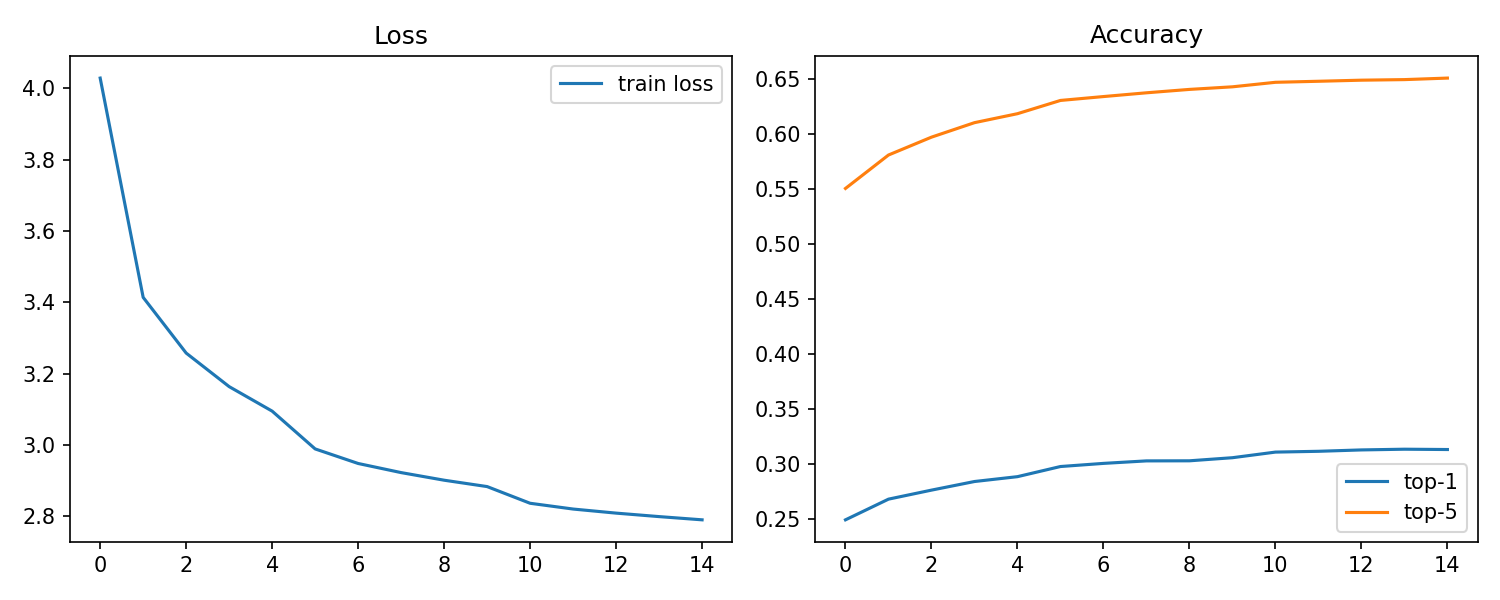
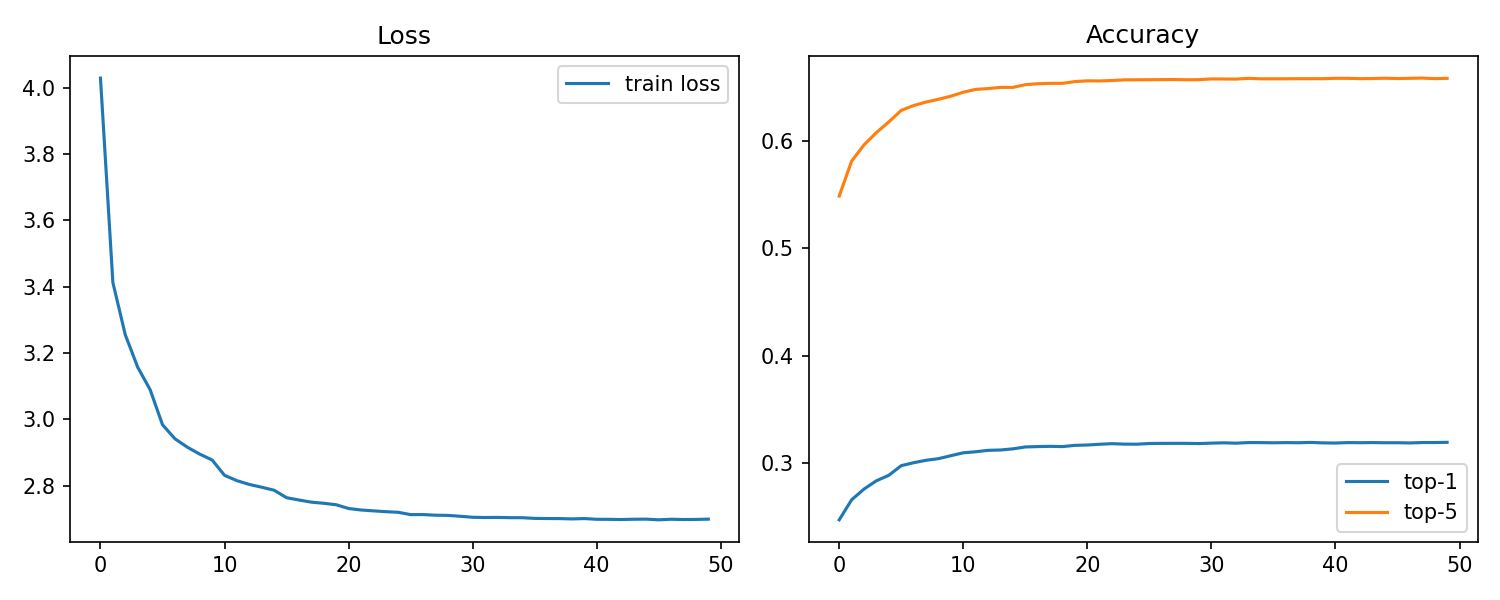
Update AI strength, add material UI, fix JSON bug

diff --git a/web/static/app.js b/web/static/app.js
@@ -149,6 +149,76 @@ function renderBoard() {
             }
         }
     }
+
+    calculateMaterial();
+}
+
+function calculateMaterial() {
+    const pieceValues = { 'p': 1, 'n': 3, 'b': 3, 'r': 5, 'q': 9, 'P': 1, 'N': 3, 'B': 3, 'R': 5, 'Q': 9 };
+    const startingCounts = { 'p': 8, 'n': 2, 'b': 2, 'r': 2, 'q': 1, 'P': 8, 'N': 2, 'B': 2, 'R': 2, 'Q': 1 };
+    
+    let currentCounts = { 'p': 0, 'n': 0, 'b': 0, 'r': 0, 'q': 0, 'P': 0, 'N': 0, 'B': 0, 'R': 0, 'Q': 0 };
+    let whiteScore = 0;
+    let blackScore = 0;
+
+    for (let r = 0; r < 8; r++) {
+        for (let c = 0; c < 8; c++) {
+            const p = boardState[r]?.[c];
+            if (p && currentCounts[p] !== undefined) {
+                currentCounts[p]++;
+                if (p === p.toUpperCase()) {
+                    whiteScore += pieceValues[p];
+                } else {
+                    blackScore += pieceValues[p];
+                }
+            }
+        }
+    }
+
+    const whiteCaptured = [];
+    const blackCaptured = [];
+    
+    // Pieces white has captured (black pieces missing)
+    ['q', 'r', 'b', 'n', 'p'].forEach(p => {
+        const missing = startingCounts[p] - currentCounts[p];
+        for (let i = 0; i < missing; i++) whiteCaptured.push(p);
+    });
+
+    // Pieces black has captured (white pieces missing)
+    ['Q', 'R', 'B', 'N', 'P'].forEach(p => {
+        const missing = startingCounts[p] - currentCounts[p];
+        for (let i = 0; i < missing; i++) blackCaptured.push(p);
+    });
+
+    const pieceIcons = {
+        'P': '♙', 'N': '♘', 'B': '♗', 'R': '♖', 'Q': '♕',
+        'p': '♟', 'n': '♞', 'b': '♝', 'r': '♜', 'q': '♛'
+    };
+
+    const renderMaterial = (elementId, captured, isWhite) => {
+        const el = document.getElementById(elementId);
+        if (!el) return;
+        el.innerHTML = '';
+        
+        for (const p of captured) {
+            const span = document.createElement('span');
+            span.className = 'captured-piece-icon';
+            span.textContent = pieceIcons[p];
+            el.appendChild(span);
+        }
+
+        const scoreDiff = isWhite ? (whiteScore - blackScore) : (blackScore - whiteScore);
+        if (scoreDiff > 0) {
+            const diffSpan = document.createElement('span');
+            diffSpan.className = 'material-score';
+            diffSpan.textContent = `+${scoreDiff}`;
+            el.appendChild(diffSpan);
+        }
+    };
+
+    const playerIsWhite = playerColor === 'white';
+    renderMaterial('bottomMaterial', playerIsWhite ? whiteCaptured : blackCaptured, playerIsWhite);
+    renderMaterial('topMaterial', playerIsWhite ? blackCaptured : whiteCaptured, !playerIsWhite);
 }
 
 
@@ -802,12 +872,12 @@ function selectPromotion(promoChar) {
 
 function selectTime(minutes) {
     document.querySelectorAll('.time-option').forEach(el => el.classList.remove('selected'));
-    document.getElementById(`time${minutes}`).classList.add('selected');
+    document.getElementById(minutes === 0 ? 'timeNone' : `time${minutes}`).classList.add('selected');
     timeControlMs = minutes * 60 * 1000;
 }
 
 function timerLoop() {
-    if (!gameActive) return;
+    if (!gameActive || timeControlMs === 0) return;
 
     const now = Date.now();
     const dt = now - lastTickTime;
@@ -828,6 +898,15 @@ function updateClockDisplays() {
     const topEl = document.getElementById('topCaptured');
     const bottomEl = document.getElementById('bottomCaptured');
     if (!topEl || !bottomEl) return;
+    
+    if (timeControlMs === 0) {
+        topEl.style.display = 'none';
+        bottomEl.style.display = 'none';
+        return;
+    } else {
+        topEl.style.display = 'block';
+        bottomEl.style.display = 'block';
+    }
     
     topEl.textContent = formatTime(topTimeMs);
     bottomEl.textContent = formatTime(bottomTimeMs);

diff --git a/web/static/style.css b/web/static/style.css
@@ -495,6 +495,23 @@ body {
     font-family: var(--font-mono);
 }
 
+.captured-material {
+    display: flex;
+    align-items: center;
+    gap: 4px;
+    font-size: 16px; /* Slightly larger to make icons legible */
+    color: var(--text-muted);
+    margin-left: auto;
+    margin-right: 12px;
+}
+
+.material-score {
+    font-size: 12px;
+    font-weight: 600;
+    margin-left: 4px;
+    color: var(--text-primary);
+}
+
 .player-clock {
     font-family: var(--font-mono);
     font-size: 20px;

diff --git a/web/index.html b/web/index.html
@@ -46,6 +46,7 @@
                         <div class="player-name" id="topName">Chess AI</div>
                         <div class="player-detail" id="topDetail">MLP + Minimax α-β</div>
                     </div>
+                    <div class="captured-material" id="topMaterial"></div>
                     <div class="player-clock" id="topCaptured">10:00</div>
                 </div>
 
@@ -77,6 +78,7 @@
                         <div class="player-name" id="bottomName">You</div>
                         <div class="player-detail" id="bottomDetail">Playing as White</div>
                     </div>
+                    <div class="captured-material" id="bottomMaterial"></div>
                     <div class="player-clock" id="bottomCaptured">10:00</div>
                 </div>
             </div>
@@ -158,6 +160,7 @@
                 
                 <p class="modal-description" style="margin-top: 24px;">Time Control</p>
                 <div class="time-picker">
+                    <button class="time-option" id="timeNone" onclick="selectTime(0)">None</button>
                     <button class="time-option" id="time5" onclick="selectTime(5)">5 min</button>
                     <button class="time-option selected" id="time10" onclick="selectTime(10)">10 min</button>
                     <button class="time-option" id="time15" onclick="selectTime(15)">15 min</button>

diff --git a/app.py b/app.py
@@ -12,6 +12,7 @@ sys.path.insert(0, BASE_DIR)
 from flask import Flask, render_template, request, jsonify
 from flask_cors import CORS
 import chess
+import math
 
 import config
 from src.model import load_model
@@ -29,6 +30,13 @@ print(f"[OK] Chess AI model loaded on {DEVICE}")
 
 # ── Game state (per-session, single player for simplicity) ──
 game_board = chess.Board()
+
+def sanitize_score(score):
+    if math.isinf(score):
+        return 999.99 if score > 0 else -999.99
+    if math.isnan(score):
+        return 0.0
+    return round(score / 100.0, 2)
 
 
 @app.route("/")
@@ -57,7 +65,7 @@ def new_game():
         game_board.push(ai_move)
         response["fen"] = game_board.fen()
         response["ai_move"] = ai_move.uci()
-        response["eval_score"] = round(raw_score / 100.0, 2)  # AI is White, so positive means White winning
+        response["eval_score"] = sanitize_score(raw_score)  # AI is White, so positive means White winning
 
     return jsonify(response)
 
@@ -108,7 +116,7 @@ def make_move():
             response["fen"] = game_board.fen()
             response["ai_move"] = ai_move.uci()
             response["ai_move_san"] = ai_san
-            response["eval_score"] = round(std_score / 100.0, 2)
+            response["eval_score"] = sanitize_score(std_score)
             response["game_over"] = game_board.is_game_over()
             response["result"] = _get_result()
         except Exception as e:

diff --git a/config.py b/config.py
@@ -26,15 +26,15 @@ DROPOUT        = 0.3
 
 # Training
 BATCH_SIZE     = 512
-EPOCHS         = 15
+EPOCHS         = 50
 LR             = 1e-3
 LR_STEP        = 5          # reduce LR every N epochs
 LR_GAMMA       = 0.5
 DEVICE         = "cuda"      # change to "cpu" if you don't have a GPU
 
 # Minimax
-SEARCH_DEPTH   = 4          # depth 4 for strong performance
-TIME_LIMIT_SEC = 5.0        # max seconds per move
+SEARCH_DEPTH   = 3          # depth 3 for faster responses
+TIME_LIMIT_SEC = 2.0        # max seconds per move
 
 # Tournament
 TOURNAMENT_GAMES    = 50    # games per Elo level